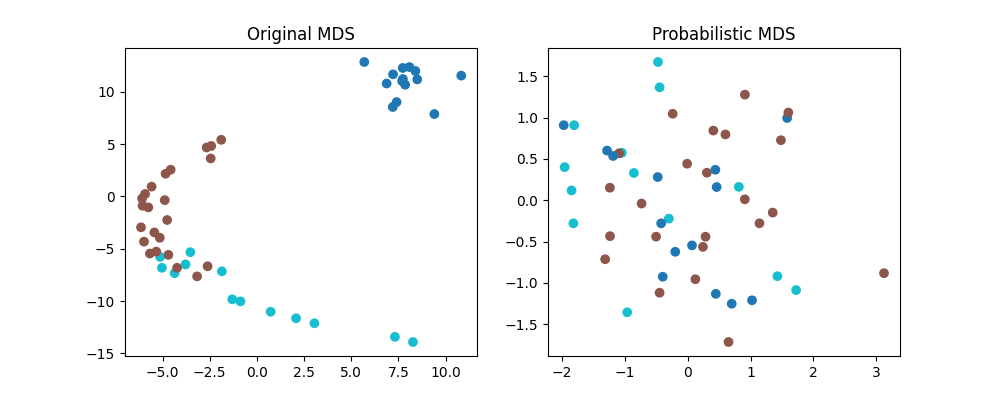
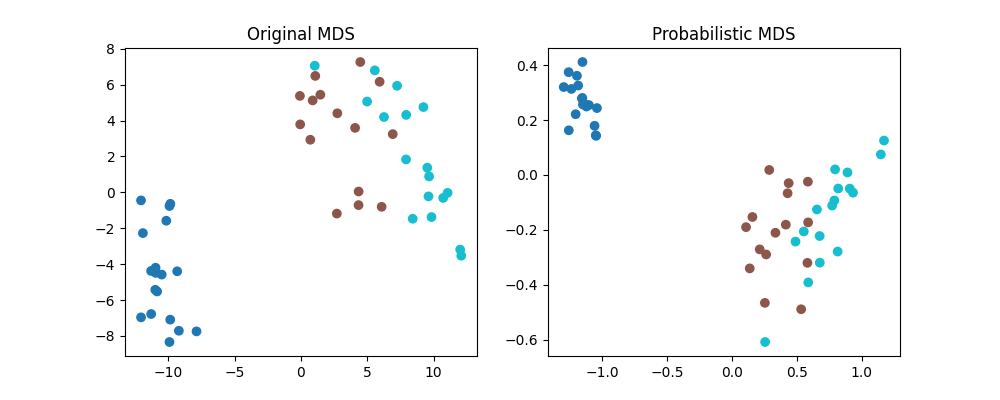
V0.1 Probabilist MDS with only learn mu params

diff --git a/pmds.py b/pmds.py
@@ -1,24 +1,15 @@
 # Simple probabilistic MDS with jax
-from functools import partial
-from itertools import chain, islice, combinations
-
-from typing import Any, Callable, List, NamedTuple, Optional, Sequence, Union, Tuple
+from itertools import combinations
 
 import numpy as np
-from scipy.special import ive
 
 import jax
 import jax.numpy as jnp
 from jax import random
-from jax.scipy.special import xlogy, i0e, i1e
+from jax.scipy.special import i0e  # xlogy, i1e
 from jax.test_util import check_grads
 
 from utils import chunks
-
-
-Array = Any
-DType = Any
-Shape = Sequence[int]
 
 
 def _ncx2_log_pdf(x, nc):
@@ -53,24 +44,11 @@ def _ncx2_pdf(x, nc):  # df=2
     return jnp.exp(_ncx2_log_pdf(x, nc))
 
 
-# # loss function for each pair (slow but stable and pass check_grads)
-# def loss_one_pair(params, d):
-#     mu_i, mu_j, s_i, s_j = params
-#     nc = jnp.sum((mu_i - mu_j) ** 2) / (s_i + s_j)
-#     return _ncx2_log_pdf(x=d, nc=nc)
-#
-#
-# # NOT STABLE
-# def loss_all_pairs(params, dists):
-#     mu_i, mu_j, s_i, s_j = params
-#     nc = jnp.linalg.norm(mu_i - mu_j) / (s_i + s_j)
-#     return jnp.sum(_ncx2_log_pdf(x=dists, nc=nc))
-
-
 def init_params(n_samples, n_components=2, random_state=42):
     key_m, key_s = random.split(random.PRNGKey(random_state))
     mu = random.normal(key_m, (n_samples, n_components))
-    ss = jax.nn.softplus(1e-2 * random.normal(key_s, (n_samples,)))
+    # ss = jax.nn.softplus(1e-2 * random.normal(key_s, (n_samples,)))
+    ss = jax.nn.softplus(1e-2 * jnp.ones(n_samples))
     return [mu, ss]
 
 
@@ -84,15 +62,14 @@ def test_grad_loss(loss_func, mu, ss, dists, batch_size=100):
         ss[random_indices(batch_size)],
         ss[random_indices(batch_size)],
     ]
-    check_grads(loss_func, (params, dists[random_indices(batch_size)]), order=1)
+    check_grads(loss_func, (*params, dists[random_indices(batch_size)]), order=1)
 
 
-def pmds(p_dists, n_samples=100, random_state=42, lr=10, epochs=20):
+def pmds(p_dists, n_samples=100, random_state=42, lr=5e-2, epochs=20):
     n_components = 2
-    batch_size = 2500
+    batch_size = 2500 // 2
 
     mu, ss = init_params(n_samples, n_components, random_state)
-    # test_grad_loss(jax.jit(loss_one_pair), mu, ss, p_dists, batch_size)
 
     # patch pairwise distances and indices of each pairs together
     all_pairs = list(combinations(range(n_samples), 2))
@@ -107,49 +84,42 @@ def pmds(p_dists, n_samples=100, random_state=42, lr=10, epochs=20):
 
     # loss_and_grads = jax.jit(jax.value_and_grad(loss_one_pair))
     loss_and_grads_batched = jax.vmap(
-        jax.jit(jax.value_and_grad(loss_one_pair, argnums=[0, 1, 2, 3])),
+        jax.jit(jax.value_and_grad(loss_one_pair, argnums=[0, 1])),
         in_axes=(0, 0, 0, 0, 0),
         out_axes=0,
     )
 
-    def loop_one_epoch():
+    all_loss = []
+    for epoch in range(epochs):
         loss = 0.0
         for i, batch in enumerate(
             chunks(dists_with_indices, batch_size, shuffle=False)
         ):
             # unpatch pairwise distances and indices of points in each pair
             dists, pair_indices = list(zip(*batch))
-            params = params_for_each_batch(pair_indices)
-            assert len(params[0]) <= batch_size
+            i0, i1 = list(zip(*pair_indices))
+            i0, i1 = list(i0), list(i1)
 
-            loss_i = step(i, params, pair_indices, jnp.array(dists))
-            # print("\t", i, loss_i)
-            loss += loss_i
-        return loss / (i + 1)
+            # get the params for related indices from global `mu` and `ss`
+            mu_i, mu_j, ss_i, ss_j = mu[i0], mu[i1], ss[i0], ss[i1]
+            assert len(mu_i) <= batch_size
 
-    def params_for_each_batch(pair_indices):
-        i0, i1 = list(zip(*pair_indices))
-        return [mu[[i0]], mu[[i1]], ss[[i0]], ss[[i1]]]
+            # calculate loss and gradients in each batch
+            loss_batch, grads = loss_and_grads_batched(
+                mu_i, mu_j, ss_i, ss_j, jnp.array(dists)
+            )
+            loss += jnp.mean(loss_batch)
 
-    def step(i, params, pair_indices, dists):
-        mu_i, mu_j, ss_i, ss_j = params
-        loss, grads = loss_and_grads_batched(mu_i, mu_j, ss_i, ss_j, dists)
-        mu, ss = update_params(grads, pair_indices)
-        return jnp.mean(loss)
+            # update gradient for the corresponding related indices
+            grads_mu = jnp.concatenate((lr * grads[0], lr * grads[1]), axis=0)
+            indices_mu = i0 + i1
+            assert grads_mu.shape[0] == len(indices_mu)
 
-    def update_params(grads, pair_indices):
-        i0, i1 = list(zip(*pair_indices))
-        new_mu = jax.ops.index_add(mu, [i0], -lr * jnp.mean(grads[0], axis=0))
-        new_mu = jax.ops.index_add(new_mu, [i1], -lr * jnp.mean(grads[1], axis=0))
-        new_ss = jax.ops.index_add(ss, [i0], -lr * jnp.mean(grads[2], axis=0))
-        new_ss = jax.ops.index_add(new_ss, [i1], -lr * jnp.mean(grads[3], axis=0))
-        return [new_mu, new_ss]
+            mu = jax.ops.index_add(mu, indices_mu, grads_mu)
 
-    all_loss = []
-    for epoch in range(epochs):
-        loss = loop_one_epoch()
+        loss /= i + 1
         all_loss.append(loss)
-        print(epoch, loss)
+        print(f"[DEBUG] epoch {epoch}, loss: {loss:.5f}")
 
     return mu, ss, all_loss
 

diff --git a/run_pmds.py b/run_pmds.py
@@ -5,6 +5,7 @@ from sklearn.datasets import load_iris, load_digits, load_wine
 from sklearn.utils import shuffle
 from sklearn.manifold import MDS
 from sklearn.preprocessing import StandardScaler
+from sklearn.decomposition import PCA
 from scipy.spatial.distance import pdist, squareform
 
 from pmds import pmds
@@ -41,7 +42,10 @@ if __name__ == "__main__":
     print(X.shape, y.shape)
 
     # test standardize input data
-    # X = StandardScaler().fit_transform(X)
+    X = StandardScaler().fit_transform(X)
+    if len(X) > 10:
+        X = PCA(0.95).fit_transform(X)
+        print("[Dataset] After PCA: ", X.shape)
 
     D = pdist(X)
     res = run_pdms(D, N=len(X), labels=y)
